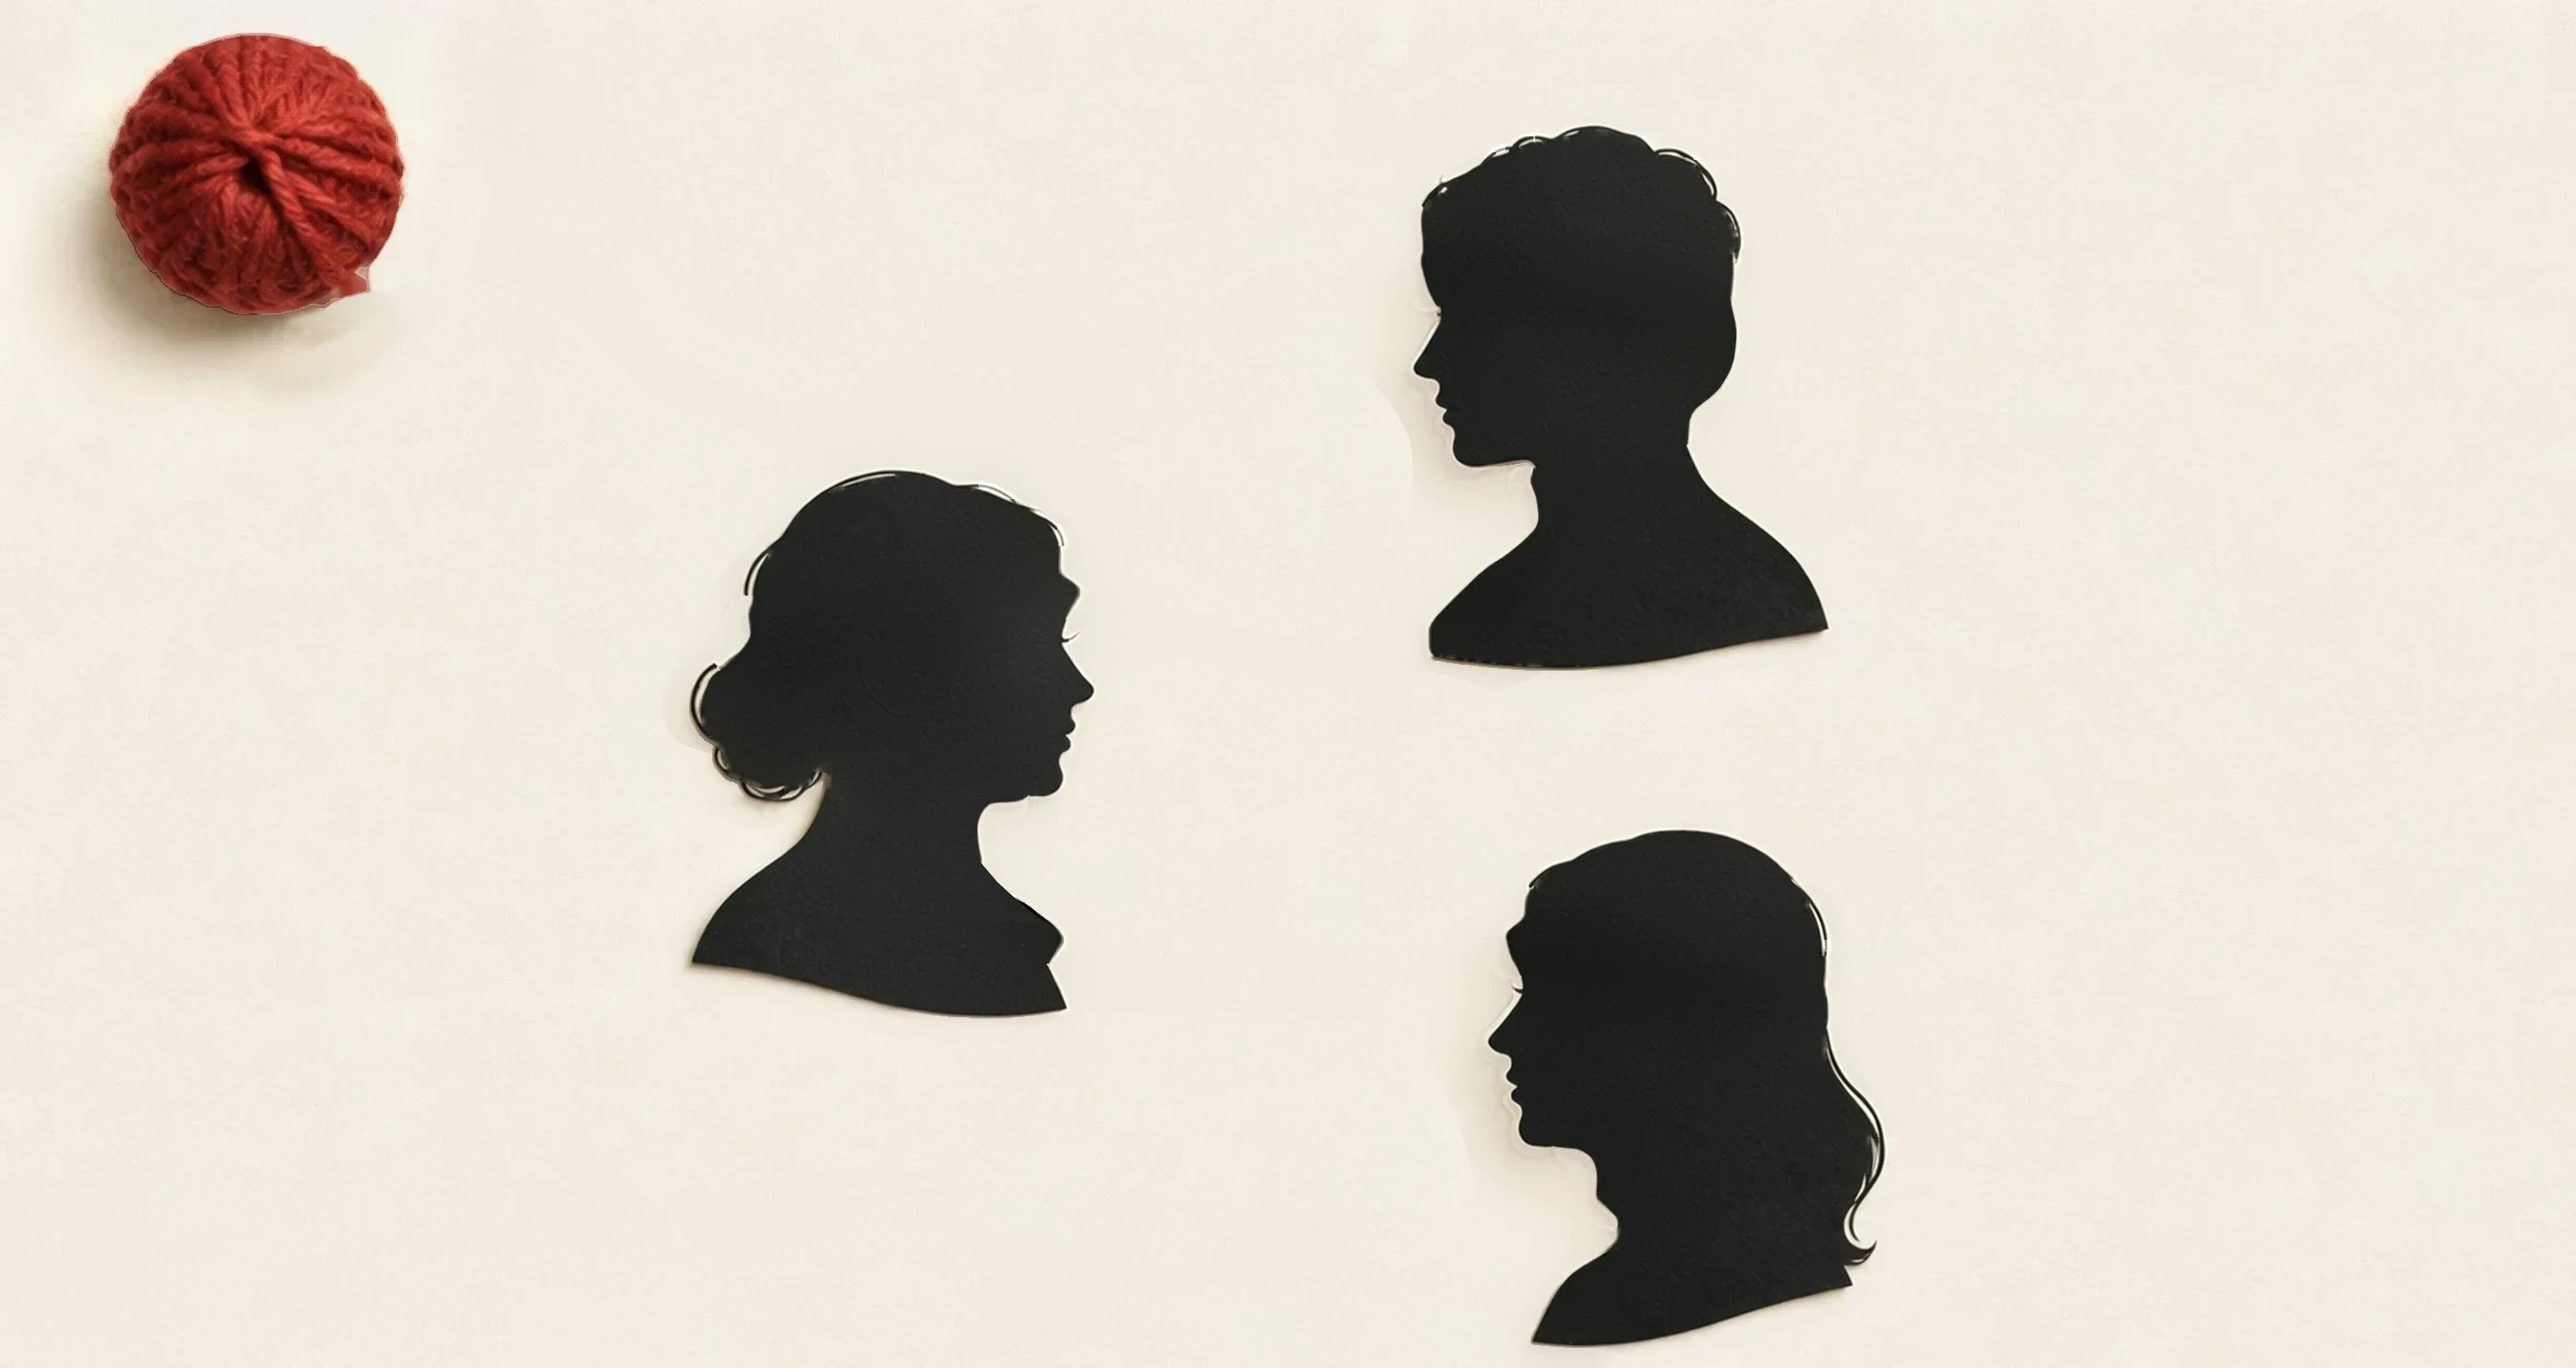
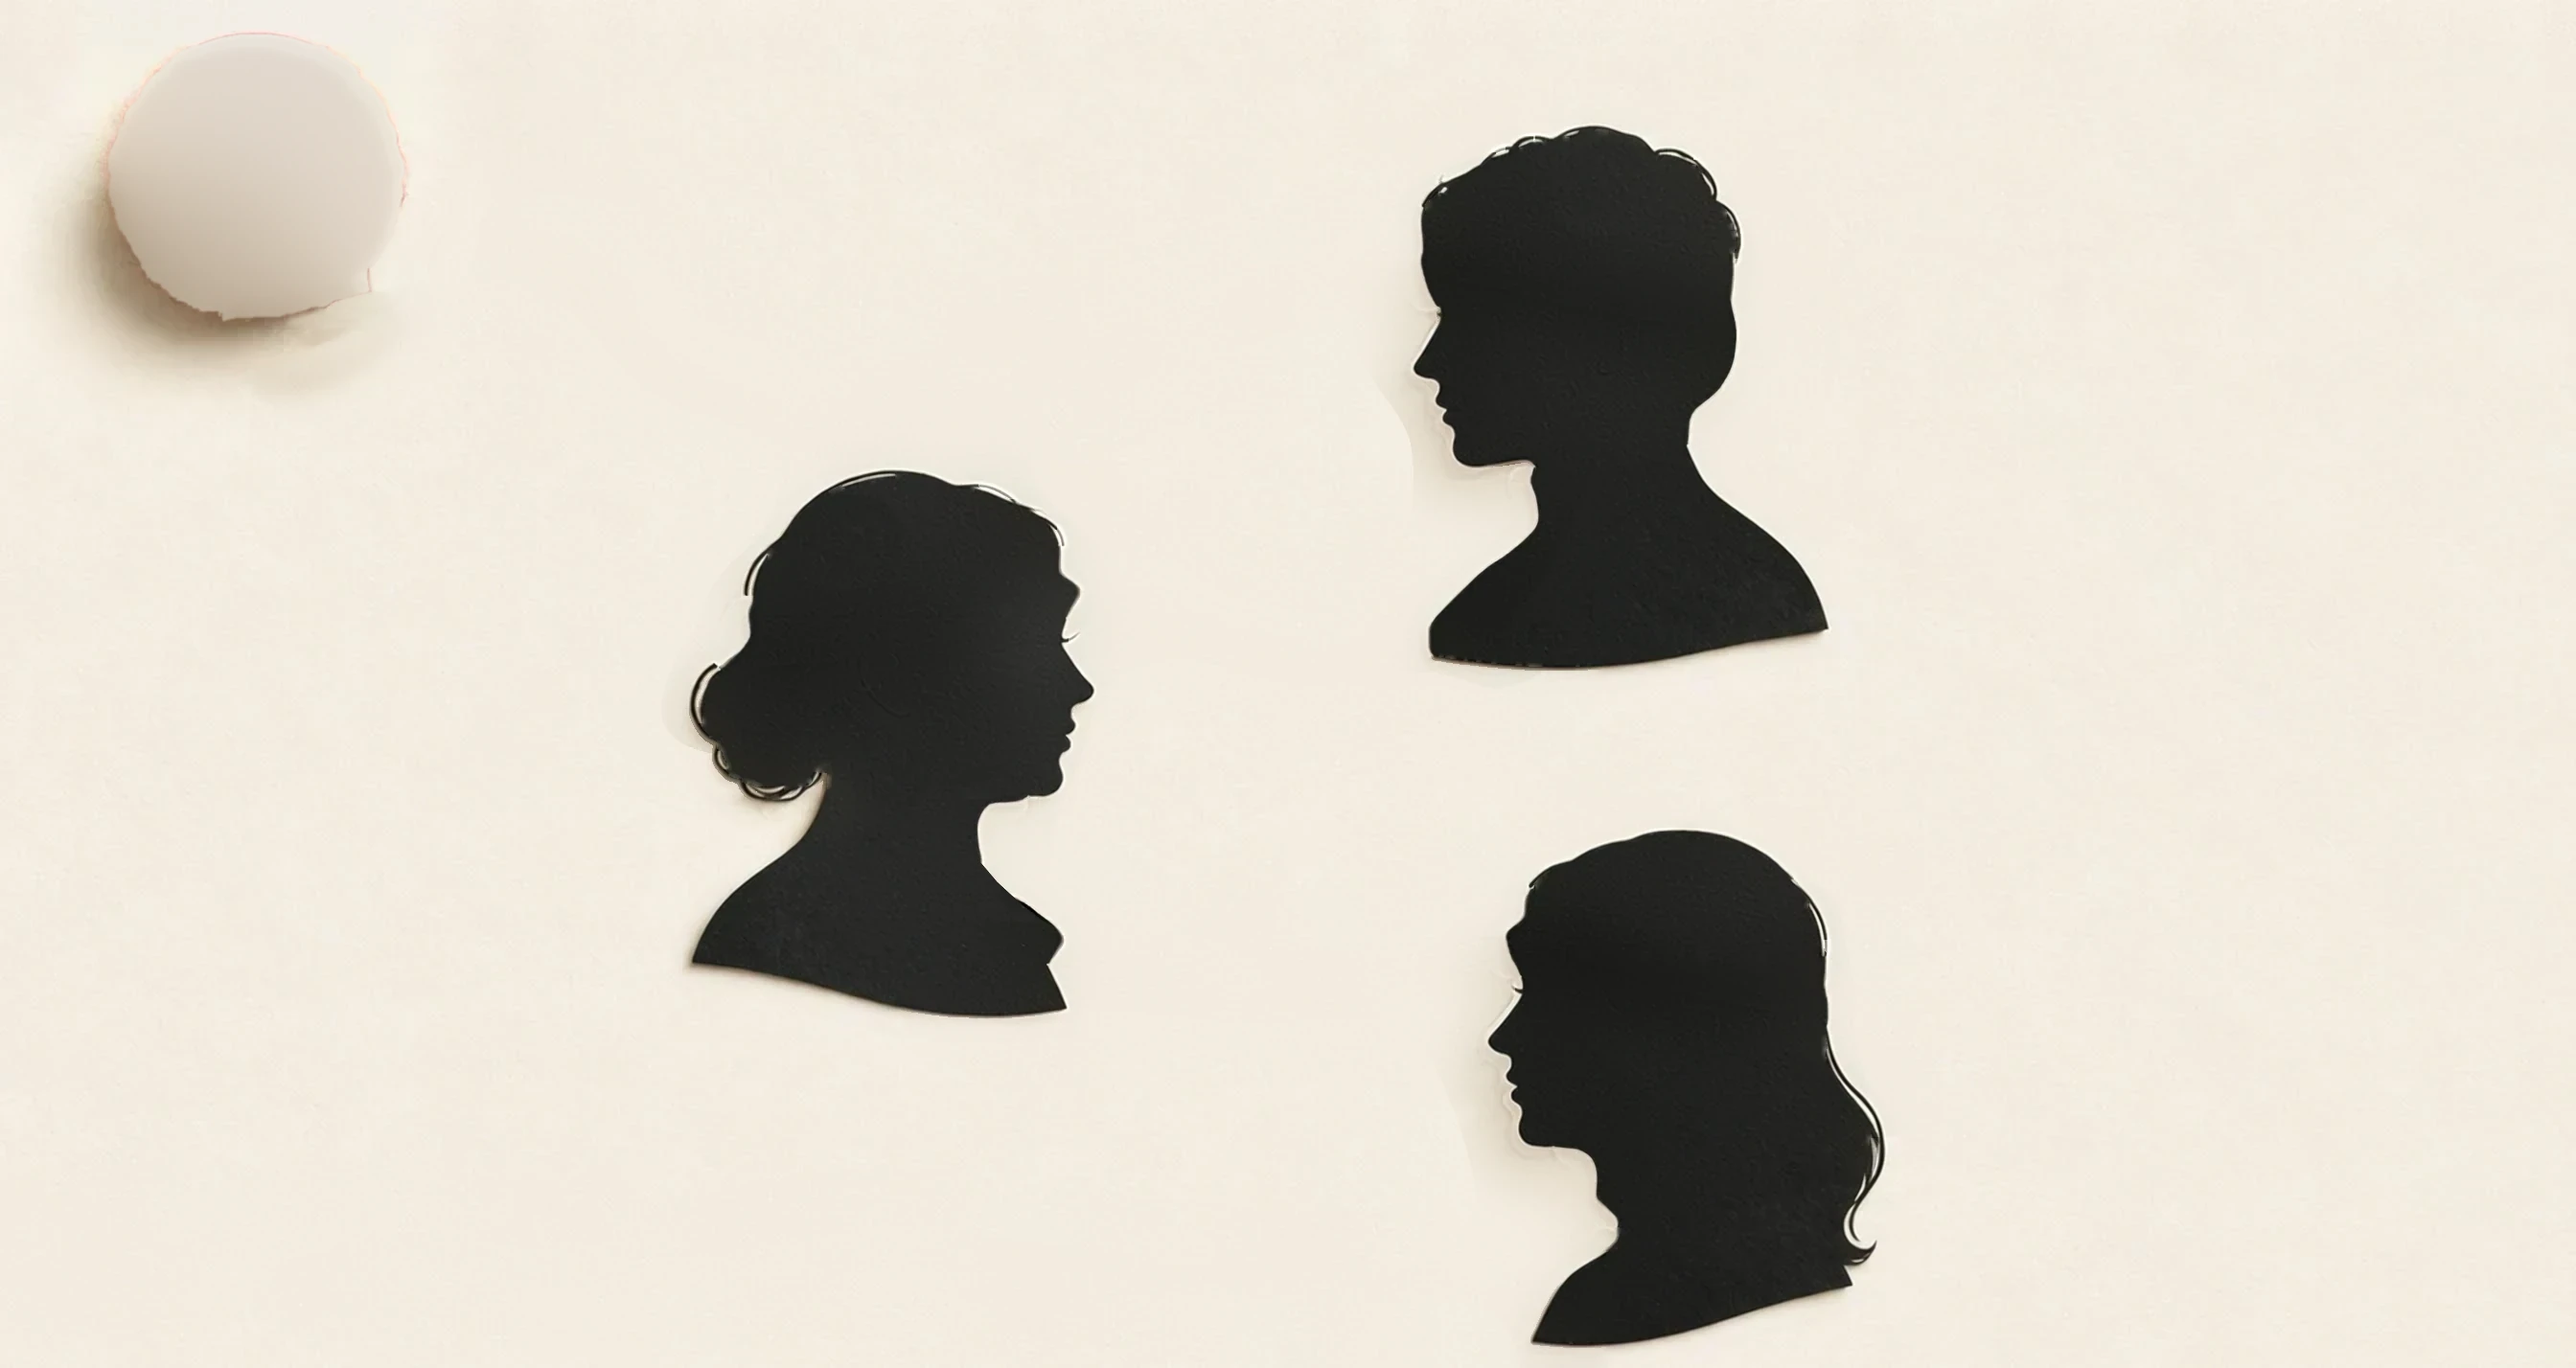
Matassa in png con peluria e sfondo trasparente (doppia risoluzione), girata intera senza perdere dettaglio; base con carta, ombra di contatto e ombra dei profili; primo filo divisorio piu' in basso di 14 px (#28)
Claude-Session: https://claude.ai/code/session_01K8S9kDcMmADtdHMs7poTsz

Changed region(s): [[0.0312, 0.0, 0.1562, 0.2465]]

diff --git a/assets/js/matassa.js b/assets/js/matassa.js
@@ -11,10 +11,9 @@
    - filo.webp: solo il filo, con la trasparenza;
    - tempo.png: per ogni pixel del filo, quando ricompare (0 = alla matassa, 1 = in
      fondo), in 16 bit: rosso = byte alto, verde = byte basso;
-   - palla.webp: la matassa pari pari dalla foto, a doppia risoluzione (708x708, si disegna a 354),
-     con la lana specchiata oltre il bordo; palla-maschera.png: la sua sagoma vera con la peluria. Mentre si scorre la
-     texture gira sotto la maschera ferma: cosi' gira tutta la lana fino al bordo, mentre
-     il contorno e l'ombra proiettata sulla carta restano al loro posto.
+   - palla.png: la matassa ritagliata con la sua peluria su sfondo trasparente, a doppia
+     risoluzione (708x708, si disegna a 354 nel quadro {x,y}); nella base al suo posto c'e' la carta
+     con l'ombra proiettata, ferma. Girando il png la lana gira tutta e il bordo resta peloso.
    Con prefers-reduced-motion il palco e' alto uno schermo e il filo e' gia' tutto. */
 (function () {
   'use strict';
@@ -49,8 +48,8 @@
   function prepara() {
     var nome = verticale && verticale.matches ? 'stretto' : 'largo', T = TAGLI[nome];
     if (scena && scena.nome === nome) return;
-    Promise.all([carica(DIR + nome + '-base.webp?v=8'), carica(DIR + nome + '-filo.webp?v=8'), carica(DIR + nome + '-tempo.png?v=8'),
-                 carica(DIR + nome + '-palla.webp?v=3'), carica(DIR + nome + '-palla-maschera.png?v=4')]).then(function (r) {
+    Promise.all([carica(DIR + nome + '-base.webp?v=9'), carica(DIR + nome + '-filo.webp?v=9'), carica(DIR + nome + '-tempo.png?v=9'),
+                 carica(DIR + nome + '-palla.png?v=1')]).then(function (r) {
       var fp = pixel(r[1], T.W, T.H), tp = pixel(r[2], T.W, T.H);
       cBase.width = cFilo.width = T.W; cBase.height = cFilo.height = T.H;
       var out = cFilo.getContext('2d').createImageData(T.W, T.H), od = out.data;
@@ -62,7 +61,7 @@
         od[k] = fp[k]; od[k + 1] = fp[k + 1]; od[k + 2] = fp[k + 2];
         idx.push(k + 3); a0.push(a); tt.push((tp[k] * 256 + tp[k + 1]) / 65535);
       }
-      scena = { nome: nome, T: T, base: r[0], palla: r[3], maschera: r[4], out: out, idx: idx, a0: a0, tt: tt };
+      scena = { nome: nome, T: T, base: r[0], palla: r[3], out: out, idx: idx, a0: a0, tt: tt };
       cBase.getContext('2d').drawImage(r[0], 0, 0);
       cFilo.getContext('2d').clearRect(0, 0, T.W, T.H);
       for (var z = 0; z < idx.length; z++) od[idx[z]] = 0;
@@ -84,8 +83,8 @@
     if (Math.abs(p - ultimo) < 0.0004) return;
     ultimo = p;
     var T = scena.T, P = T.palla, cb = cBase.getContext('2d');
-    // la matassa gira mentre si srotola: si ridisegna il quadro della palla con la foto ferma,
-    // poi sopra la texture della palla girata, ritagliata dalla sagoma ferma
+    // la matassa gira mentre si srotola: si ridisegna il quadro con la base ferma (carta e ombra),
+    // poi sopra il png della palla, girato
     var sx = Math.max(0, P.x), sy = Math.max(0, P.y), ex = Math.min(T.W, P.x + PALLA), ey = Math.min(T.H, P.y + PALLA);
     cb.drawImage(scena.base, sx, sy, ex - sx, ey - sy, sx, sy, ex - sx, ey - sy);
     var g = scena.giro || (scena.giro = document.createElement('canvas'));
@@ -96,9 +95,6 @@
     gc.translate(CP, CP); gc.rotate(-p * Math.PI * 1.6);
     gc.drawImage(scena.palla, -CP, -CP, PALLA, PALLA);
     gc.setTransform(1, 0, 0, 1, 0, 0);
-    gc.globalCompositeOperation = 'destination-in';
-    gc.drawImage(scena.maschera, 0, 0);
-    gc.globalCompositeOperation = 'source-over';
     cb.drawImage(g, P.x, P.y);
     // il filo: tutto quello che e' gia' uscito, con un capo netto
     var od = scena.out.data, idx = scena.idx, a0 = scena.a0, tt = scena.tt, N = idx.length;

diff --git a/assets/js/filo-laterale.js b/assets/js/filo-laterale.js
@@ -105,6 +105,7 @@
     var rami = cuciture.map(function (el, i) {
       var b = el.getBoundingClientRect();
       var yc = (el.classList.contains('cucitura--dentro') ? b.top + b.height / 2 : b.top) + sy;
+      if (i === 0) yc += 14;                              // il primo divisorio sta un po' piu' giu'
       var r = caso(7919 * (i + 3));
       var A = 9 + r() * 10, lam = (0.5 + r() * 0.5) * Math.max(m.vw, 700), fase = r() * Math.PI * 2, pend = (r() - 0.5) * 20;
       function yw(x) { return yc + A * Math.sin(2 * Math.PI * x / lam + fase) + pend * (x / m.vw - 0.5); }

diff --git a/index.html b/index.html
@@ -596,8 +596,8 @@
 </footer>
 
 <!-- prima la matassa: se c'e', site.js non disegna il filo colorato dell'apertura -->
-<script src="assets/js/matassa.js?v=20261003x" defer></script>
+<script src="assets/js/matassa.js?v=20261003y" defer></script>
 <script src="assets/js/site.js?v=20261003q" defer></script>
-<script src="assets/js/filo-laterale.js?v=3" defer></script>
+<script src="assets/js/filo-laterale.js?v=4" defer></script>
 </body>
 </html>

diff --git a/artisti/anna-randolo.html b/artisti/anna-randolo.html
@@ -160,6 +160,6 @@
 </footer>
 
 <script src="../assets/js/site.js?v=20261003q" defer></script>
-<script src="../assets/js/filo-laterale.js?v=3" defer></script>
+<script src="../assets/js/filo-laterale.js?v=4" defer></script>
 </body>
 </html>

diff --git a/artisti/anna-spazio-marangon.html b/artisti/anna-spazio-marangon.html
@@ -160,6 +160,6 @@
 </footer>
 
 <script src="../assets/js/site.js?v=20261003q" defer></script>
-<script src="../assets/js/filo-laterale.js?v=3" defer></script>
+<script src="../assets/js/filo-laterale.js?v=4" defer></script>
 </body>
 </html>

diff --git a/artisti/caino.html b/artisti/caino.html
@@ -160,6 +160,6 @@
 </footer>
 
 <script src="../assets/js/site.js?v=20261003q" defer></script>
-<script src="../assets/js/filo-laterale.js?v=3" defer></script>
+<script src="../assets/js/filo-laterale.js?v=4" defer></script>
 </body>
 </html>

diff --git a/artisti/chiara-tosti.html b/artisti/chiara-tosti.html
@@ -175,6 +175,6 @@
 </footer>
 
 <script src="../assets/js/site.js?v=20261003q" defer></script>
-<script src="../assets/js/filo-laterale.js?v=3" defer></script>
+<script src="../assets/js/filo-laterale.js?v=4" defer></script>
 </body>
 </html>

diff --git a/artisti/daniele-corrain.html b/artisti/daniele-corrain.html
@@ -158,6 +158,6 @@
 </footer>
 
 <script src="../assets/js/site.js?v=20261003q" defer></script>
-<script src="../assets/js/filo-laterale.js?v=3" defer></script>
+<script src="../assets/js/filo-laterale.js?v=4" defer></script>
 </body>
 </html>

diff --git a/artisti/elia-pellegrini.html b/artisti/elia-pellegrini.html
@@ -159,6 +159,6 @@
 </footer>
 
 <script src="../assets/js/site.js?v=20261003q" defer></script>
-<script src="../assets/js/filo-laterale.js?v=3" defer></script>
+<script src="../assets/js/filo-laterale.js?v=4" defer></script>
 </body>
 </html>

diff --git a/artisti/enrico-buoso.html b/artisti/enrico-buoso.html
@@ -158,6 +158,6 @@
 </footer>
 
 <script src="../assets/js/site.js?v=20261003q" defer></script>
-<script src="../assets/js/filo-laterale.js?v=3" defer></script>
+<script src="../assets/js/filo-laterale.js?v=4" defer></script>
 </body>
 </html>

diff --git a/artisti/filo.html b/artisti/filo.html
@@ -158,6 +158,6 @@
 </footer>
 
 <script src="../assets/js/site.js?v=20261003q" defer></script>
-<script src="../assets/js/filo-laterale.js?v=3" defer></script>
+<script src="../assets/js/filo-laterale.js?v=4" defer></script>
 </body>
 </html>

diff --git a/artisti/francesca-de-simone.html b/artisti/francesca-de-simone.html
@@ -159,6 +159,6 @@
 </footer>
 
 <script src="../assets/js/site.js?v=20261003q" defer></script>
-<script src="../assets/js/filo-laterale.js?v=3" defer></script>
+<script src="../assets/js/filo-laterale.js?v=4" defer></script>
 </body>
 </html>
